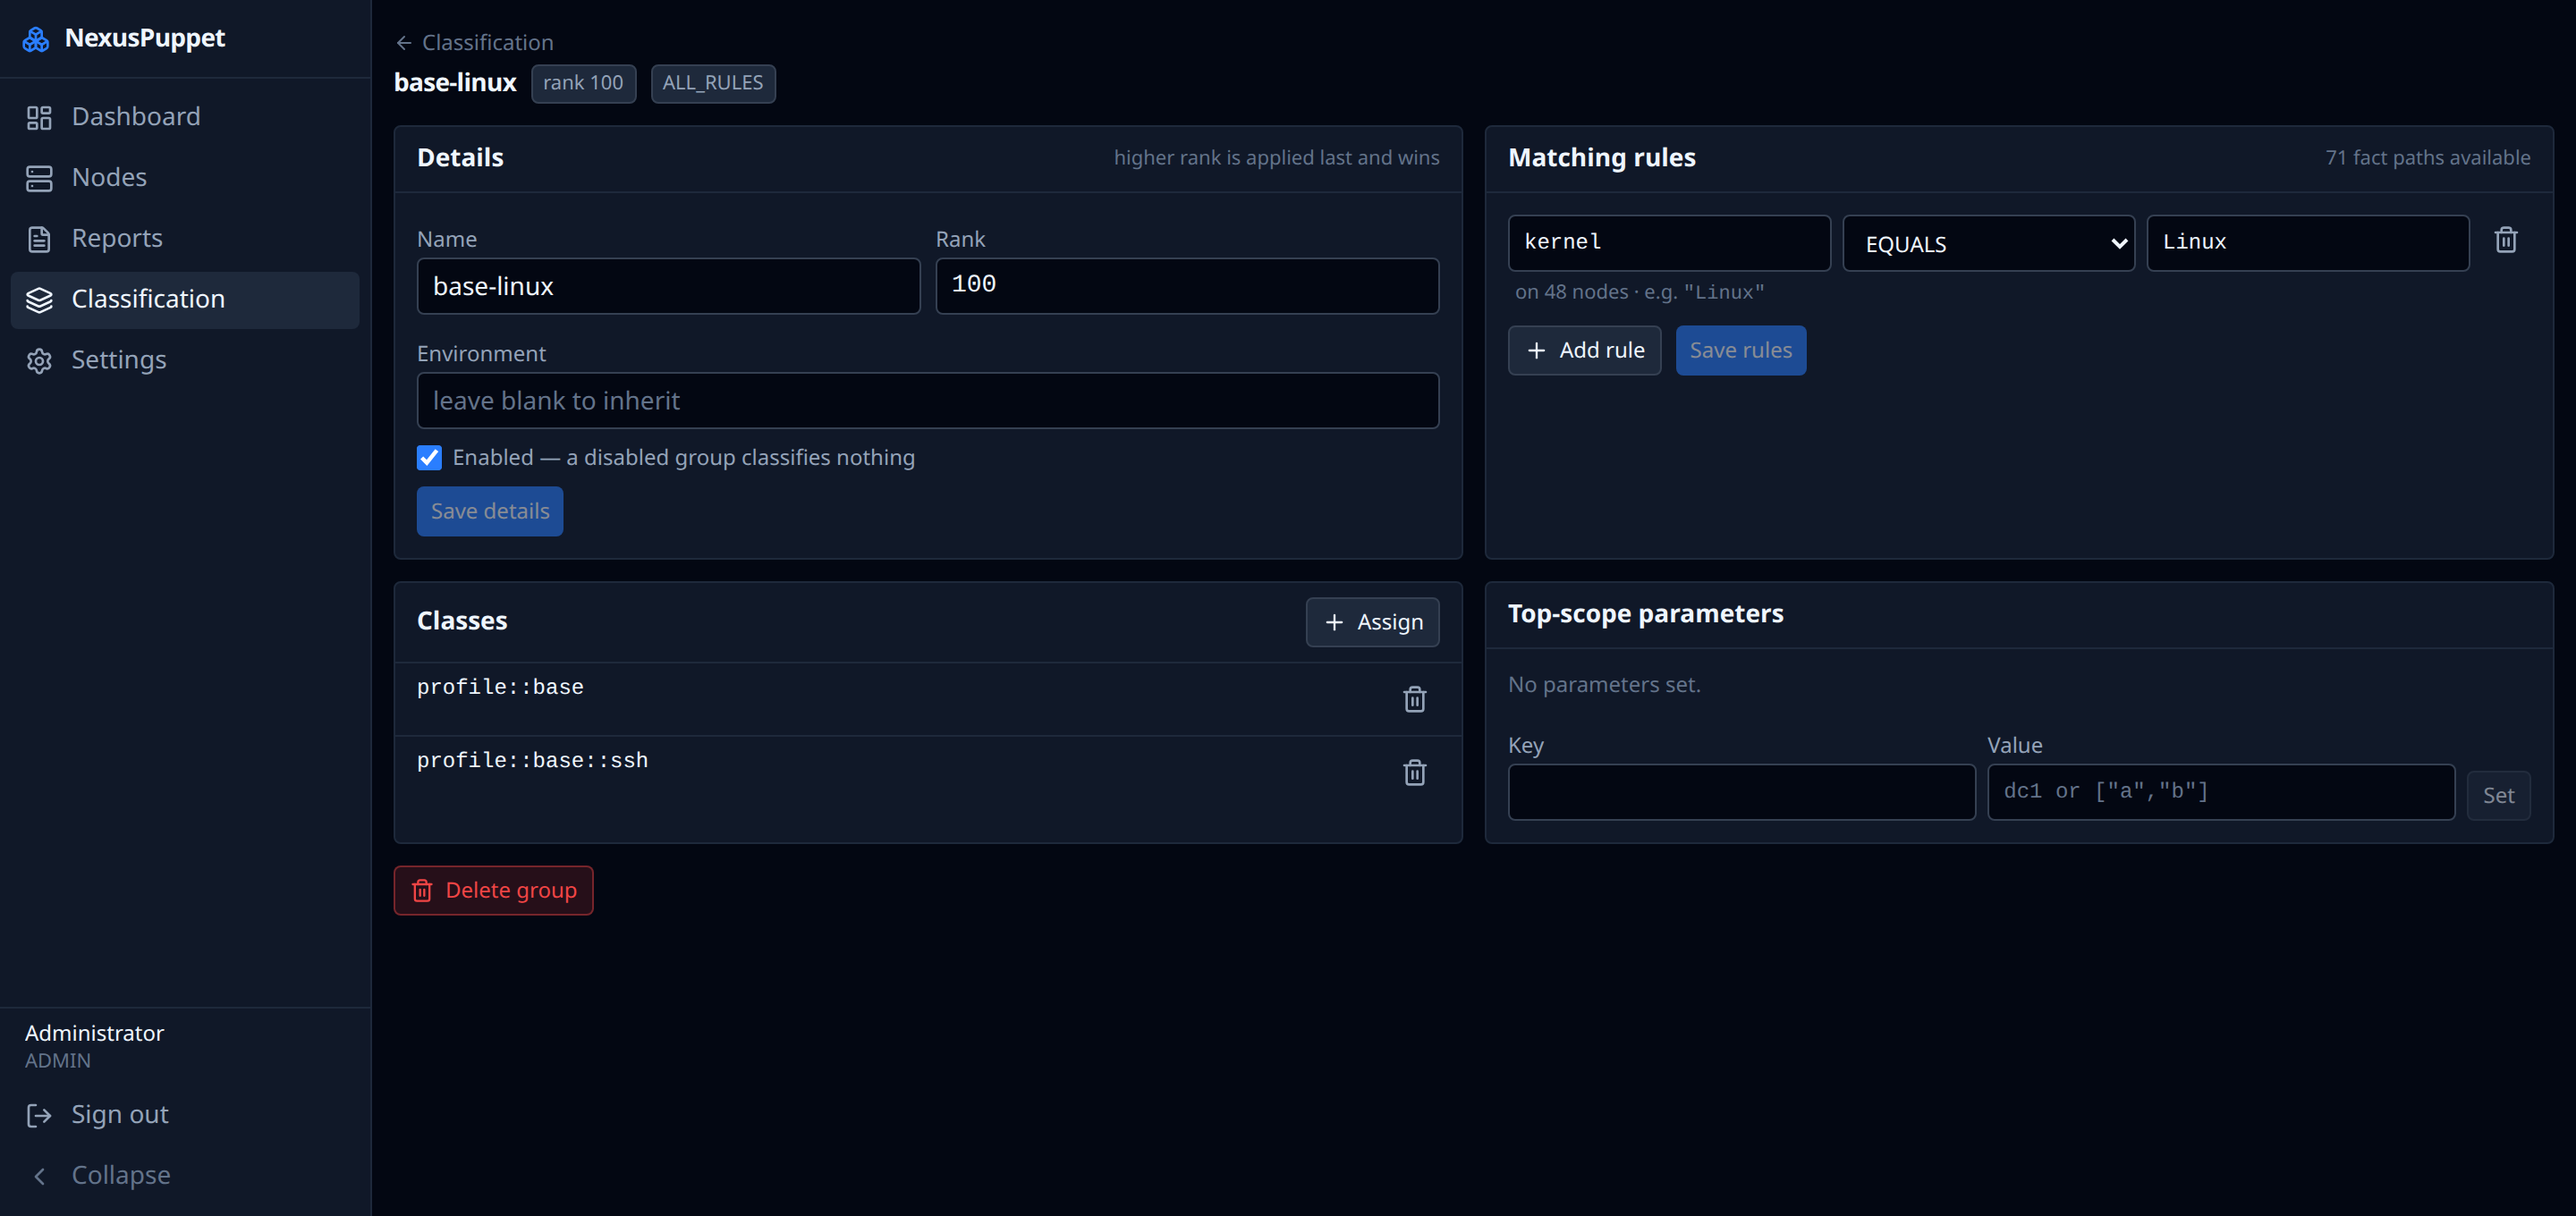
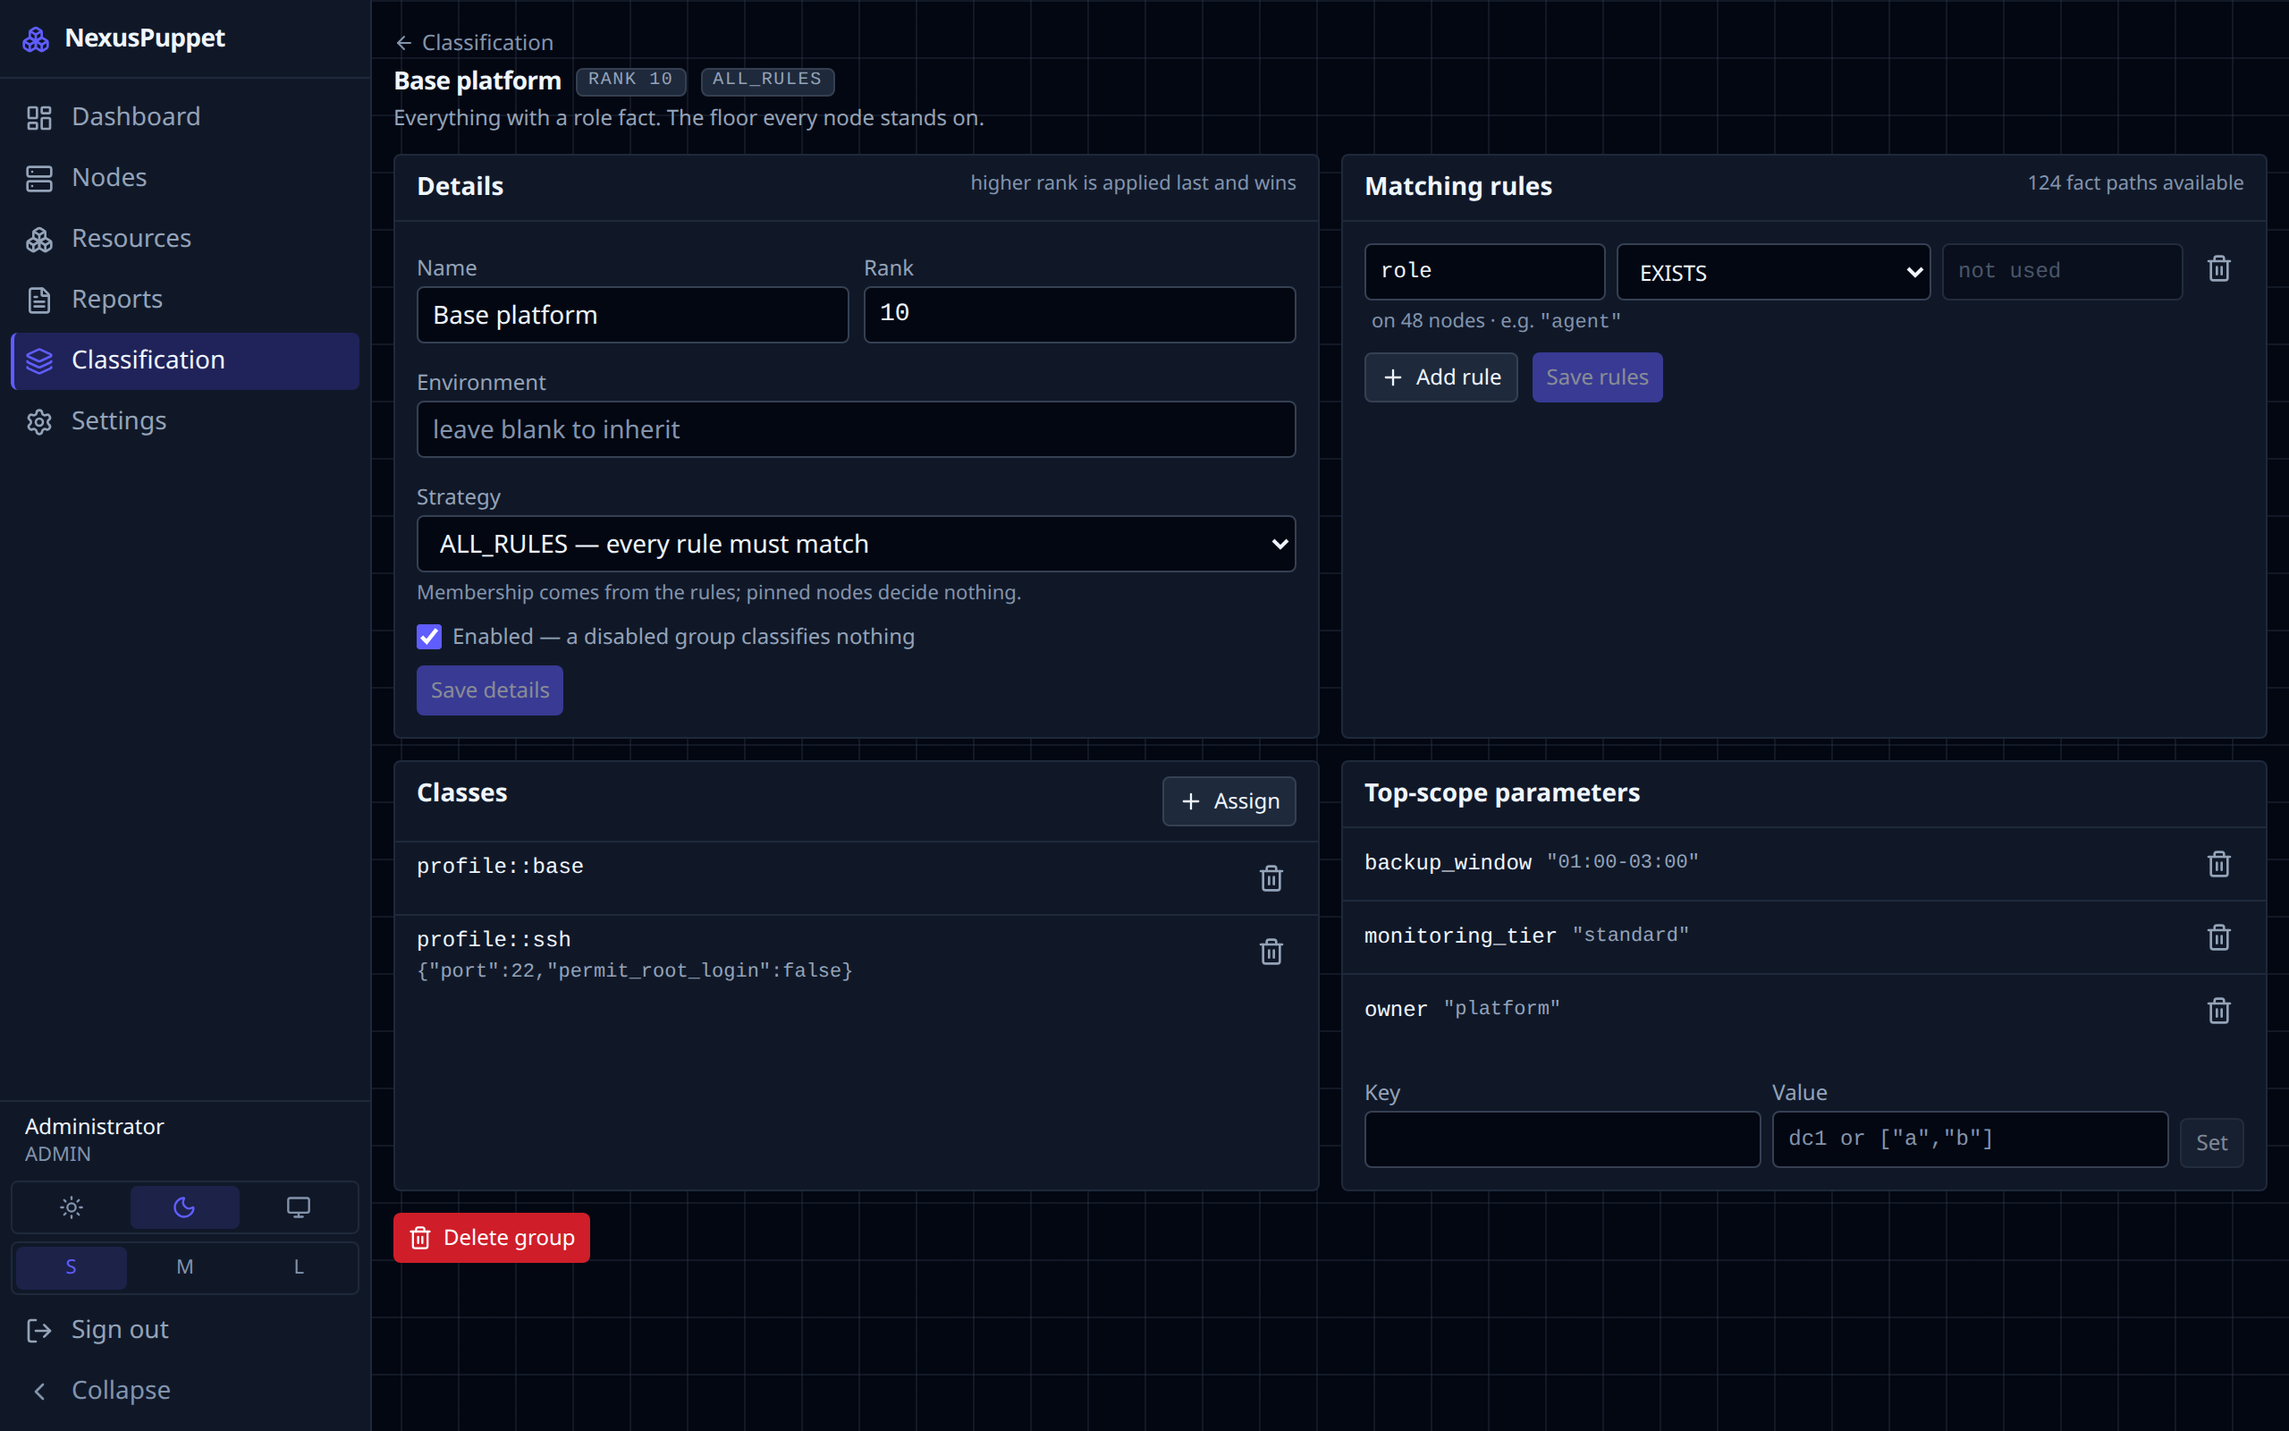
docs: refresh the README screenshots, and bring them under one command
The images were captured on 29-31 July. Since then the console gained fact
filtering, estate-wide resource search, saved queries and CSV export — so the
README was showing a product several releases old, and showing nothing at all
of the feature it now leads on.

**Five of the seven were hand-captured**, which is exactly the failure the
note at the top of screenshots.spec.ts warns about: "reproducing that by hand
every time the UI moves is how screenshots quietly come to show a version of
the product nobody ships." They are all generated now, so the next refresh is
one command rather than an afternoon.

Making them runnable outside the dev fixtures took four fixes, each a real bug
in the harness rather than a workaround:

- **login() assumed the identifier field says "Email".** It says "Username"
  wherever a directory is configured — the login page takes the label from
  `credentialSource.identifierLabel`. That made the whole e2e suite silently
  unrunnable against any deployment with AD, which is every one that matters.
- **The new captures logged in twice**, once in beforeEach and again in the
  test. The second navigation was redirected because a session existed, and
  the form detached mid-fill; the error named the input and not the cause.
- **Fixture-specific assertions.** A group called `base-linux` and a conflict
  on `profile::base.ntp_servers` exist in the dev fixtures and nowhere else.
[…]

diff --git a/e2e/screenshots.spec.ts b/e2e/screenshots.spec.ts
@@ -162,9 +162,134 @@ test.describe('@screenshots', () => {
 
     await page.goto('/classification');
     await expect(page.getByRole('heading', { name: 'Overrides in effect' })).toBeVisible();
-    await expect(page.getByText('profile::base.ntp_servers')).toBeVisible();
+    /*
+     * The conflict THIS estate has, not one named in this file. The guarantee
+     * is unchanged — refuse to photograph an empty report — but naming
+     * `profile::base.ntp_servers` tied it to the dev fixtures, and staging's
+     * genuine conflict is on a different key.
+     */
+    const found = (await (await request.get('/api/classification/conflicts')).json()) as {
+      conflicts: Array<{ key: string }>;
+    };
+    const key = found.conflicts[0]?.key;
+    if (key === undefined) throw new Error('no conflict to photograph');
+    await expect(page.getByText(key).first()).toBeVisible({ timeout: 15_000 });
 
     await page.screenshot({ path: `${SHOTS}/conflict-report.png` });
+  });
+
+  /**
+   * The screens the README shows, captured rather than photographed by hand.
+   *
+   * These were hand-captured once and then aged: by the time fact filtering,
+   * the Resources page and saved queries had shipped, the README was showing a
+   * product three releases old. That is precisely the failure the note at the
+   * top of this file describes, and the fix is to bring them under the same
+   * command as the other two.
+   *
+   * Each one WAITS FOR ITS CONTENT before shooting. A screenshot of a loading
+   * skeleton is worse than a stale one — it looks like the product is empty.
+   */
+  test('node inventory, filtered by fact', async ({ page }) => {
+    await page.goto('/nodes');
+    await expect(page.getByRole('heading', { name: 'Nodes' })).toBeVisible();
+    await expect(page.locator('table tbody tr').first()).toBeVisible({ timeout: 15_000 });
+
+    // Filter by a fact, because that is the feature — an unfiltered table is
+    // the screenshot this already had.
+    await page.getByRole('button', { name: /Filter by fact/ }).click();
+    await page.locator('input[aria-label="Fact"]').last().fill('os.name');
+    await page.locator('input[aria-label="Value"]').last().fill('Ubuntu');
+    await expect(page.getByText(/nodes? matching/)).toBeVisible({ timeout: 15_000 });
+    await expect(page.locator('table tbody tr').first()).toBeVisible();
+
+    await page.screenshot({ path: `${SHOTS}/nodes.png` });
+  });
+
+  /**
+   * Estate-wide resource search — the feature the README does not mention at
+   * all, and the one that answers "do these nodes agree".
+   */
+  test('resource consistency search', async ({ page }) => {
+    /*
+     * WIDER THAN THE OTHERS. The consistency table carries eight columns, and
+     * at 1280 the two that the screen exists for — nodes and variants — fall
+     * off the right edge. A screenshot of this feature that omits the variant
+     * count shows everything except the point.
+     */
+    await page.setViewportSize({ width: 1600, height: 900 });
+    await page.goto('/resources');
+    await expect(page.getByRole('heading', { name: 'Resources' })).toBeVisible();
+
+    await page.locator('input[aria-label="Resource type (required)"]').fill('File');
+    await page.getByRole('button', { name: 'Search', exact: true }).click();
+
+    // Refuse to photograph a consistent estate: the whole point of the screen
+    // is the row that disagrees, and a table of ticks demonstrates nothing.
+    await expect(page.getByText('sshd_config').first()).toBeVisible({ timeout: 20_000 });
+    const drifted = page.locator('tr', { has: page.locator('[aria-label="Nodes disagree"]') });
+    await expect(drifted.first()).toBeVisible({ timeout: 20_000 });
+
+    // Open one, so the capture shows WHICH nodes differ rather than only that
+    // some do.
+    await drifted.first().click();
+    await expect(page.getByText(/Differs ·/).first()).toBeVisible({ timeout: 15_000 });
+
+    await page.screenshot({ path: `${SHOTS}/resource-search.png` });
+  });
+
+  test('classification group detail', async ({ page }) => {
+    await page.goto('/classification');
+    await expect(page.getByRole('heading', { name: /Classification/ })).toBeVisible();
+
+    /*
+     * WHATEVER GROUP IS THERE, not one named in this file. The dev fixtures
+     * call theirs `base-linux`; staging's are "Base platform" and "Web tier".
+     * A hardcoded name makes the capture runnable against exactly one estate,
+     * which is how these screenshots went a month without being refreshed.
+     */
+    const firstGroup = page.locator('a[href^="/classification/"]').first();
+    await expect(firstGroup).toBeVisible({ timeout: 15_000 });
+    await firstGroup.click();
+    await expect(page.getByText('Matching rules')).toBeVisible({ timeout: 15_000 });
+
+    await page.screenshot({ path: `${SHOTS}/classification-detail.png` });
+  });
+
+  test('node classification detail', async ({ page, request }) => {
+    await apiLogin(request);
+    const response = await request.get('/api/nodes?limit=1');
+    const body = (await response.json()) as { items: Array<{ certname: string }> };
+    const certname = body.items[0]?.certname;
+    if (certname === undefined) throw new Error('no nodes in the estate to photograph');
+
+    await page.goto(`/nodes/${certname}`);
+    // The classification panel is the point of this screenshot, not the facts.
+    await expect(page.getByText(/Classification|Applied groups/).first()).toBeVisible({
+      timeout: 20_000,
+    });
+
+    await page.screenshot({ path: `${SHOTS}/node-detail.png` });
+  });
+
+  test('report detail', async ({ page, request }) => {
+    await apiLogin(request);
+    /*
+     * Reports hang off a NODE — there is no top-level list to take the first
+     * of, and asking for one returns 404. Find a node that has reported.
+     */
+    const nodes = (await (await request.get('/api/nodes?limit=25')).json()) as {
+      items: Array<{ latestReportHash: string | null }>;
+    };
+    const hash = nodes.items.find((n) => n.latestReportHash !== null)?.latestReportHash;
+    if (hash === undefined || hash === null) {
+      throw new Error('no node in the estate has reported, so there is nothing to photograph');
+    }
+
+    await page.goto(`/reports/${hash}`);
+    await expect(page.getByText(/Resource events|events/).first()).toBeVisible({ timeout: 20_000 });
+
+    await page.screenshot({ path: `${SHOTS}/report-detail.png` });
   });
 });
 

diff --git a/e2e/support.ts b/e2e/support.ts
@@ -85,7 +85,35 @@ export function uniqueGroupName(label: string): string {
 
 export async function login(page: Page): Promise<void> {
   await page.goto('/login');
-  await page.getByLabel('Email').fill(ADMIN_EMAIL);
+  /*
+   * EITHER LABEL. The identifier field is called "Email" on a local-auth
+   * deployment and "Username" where a directory is configured — the login page
+   * takes it from `credentialSource.identifierLabel` so the form matches what
+   * the operator actually types.
+   *
+   * Hardcoding "Email" made this suite silently unrunnable against any
+   * deployment with AD configured, which is every one that matters: the
+   * screenshot capture failed on all seven tests with a timeout that named the
+   * locator and not the cause.
+   */
+  /*
+   * ALREADY SIGNED IN IS A VALID OUTCOME. /login redirects to the dashboard
+   * when a session exists, so the form unmounts — and a locator holding the
+   * identifier input then reports "element was detached from the DOM" for the
+   * full timeout, naming the input rather than the redirect. Six of seven
+   * screenshot captures failed this way.
+   */
+  await page.waitForLoadState('domcontentloaded');
+  if (!page.url().includes('/login')) return;
+
+  /*
+   * The form only mounts once the credential source has loaded — it decides
+   * whether the field says Email or Username — so waiting for the input to be
+   * EDITABLE, not merely present, is what makes this stable.
+   */
+  const identifier = page.getByLabel(/^(Email|Username)$/);
+  await identifier.waitFor({ state: 'visible' });
+  await identifier.fill(ADMIN_EMAIL);
   await page.getByLabel('Password').fill(ADMIN_PASSWORD);
   await Promise.all([page.waitForURL('/'), page.getByRole('button', { name: 'Sign in' }).click()]);
 }

diff --git a/README.md b/README.md
@@ -49,11 +49,36 @@ This is every override in the estate, grouped by *which* override it is and coun
 
 ---
 
-<details>
-<summary><b>More screenshots</b> — inventory, classification, reports</summary>
+## What your nodes are actually running
 
-### Node inventory
-![Node inventory](docs/images/nodes.png)
+Classification says what a machine *should* get. This says what it *does* get — and answers the question that is not a lookup: do these machines **agree**?
+
+![Estate-wide resource search](docs/images/resource-search.png)
+
+Results group by resource and lead with variance. `File[/etc/ssh/sshd_config]` is on 21 development nodes and **20 of them are identical** — one is not. Expanding names it: `cache35`. Comparing shows why: `mode` is `0666` instead of `0600`, and the file permits root login.
+
+**Consistency is established without reading a single parameter.** PuppetDB hashes each resource over its type, title *and* parameters, so identical hashes mean identical configuration. The browser is never sent the contents of a managed file to work out that two nodes disagree.
+
+**Variance is counted within an environment, never across it.** A development node and a production node legitimately differ; counting that as drift would flag the whole estate on day one and train you to ignore the screen.
+
+Reading resource parameters is a separate, privileged permission — a managed file's contents can hold a credential — and every parameter read is recorded in the audit trail.
+
+---
+
+## Filter by fact, save it, export it
+
+![Node inventory filtered by fact](docs/images/nodes.png)
+
+*"Which machines are Ubuntu 22.04?"* is asked constantly and used to have no answer here. Now it is a filter, in the same vocabulary classification rules already use, so there is one grammar to learn rather than two.
+
+A filter worth keeping can be **saved** — private by default, shareable to the team, and a shared query is invisible to anyone who lacks the permission to run it, because a name like *"sudoers on the payment boxes"* is itself information.
+
+And because the answer is usually needed **somewhere else** — a ticket, a change record — the whole filtered result set exports as CSV. Not the page on screen: the whole set.
+
+---
+
+<details>
+<summary><b>More screenshots</b> — classification, reports</summary>
 
 ### Classification: a group, its rules and its classes
 ![Classification group](docs/images/classification-detail.png)
